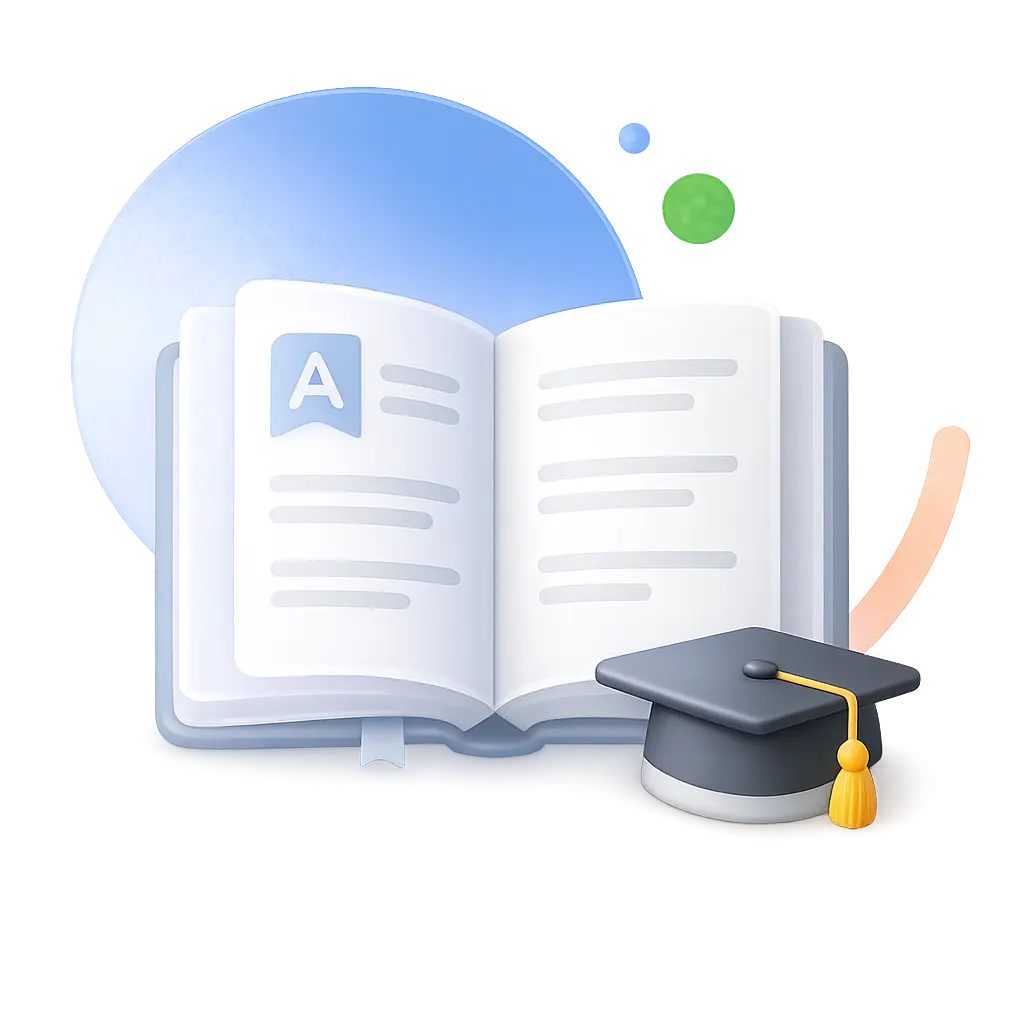
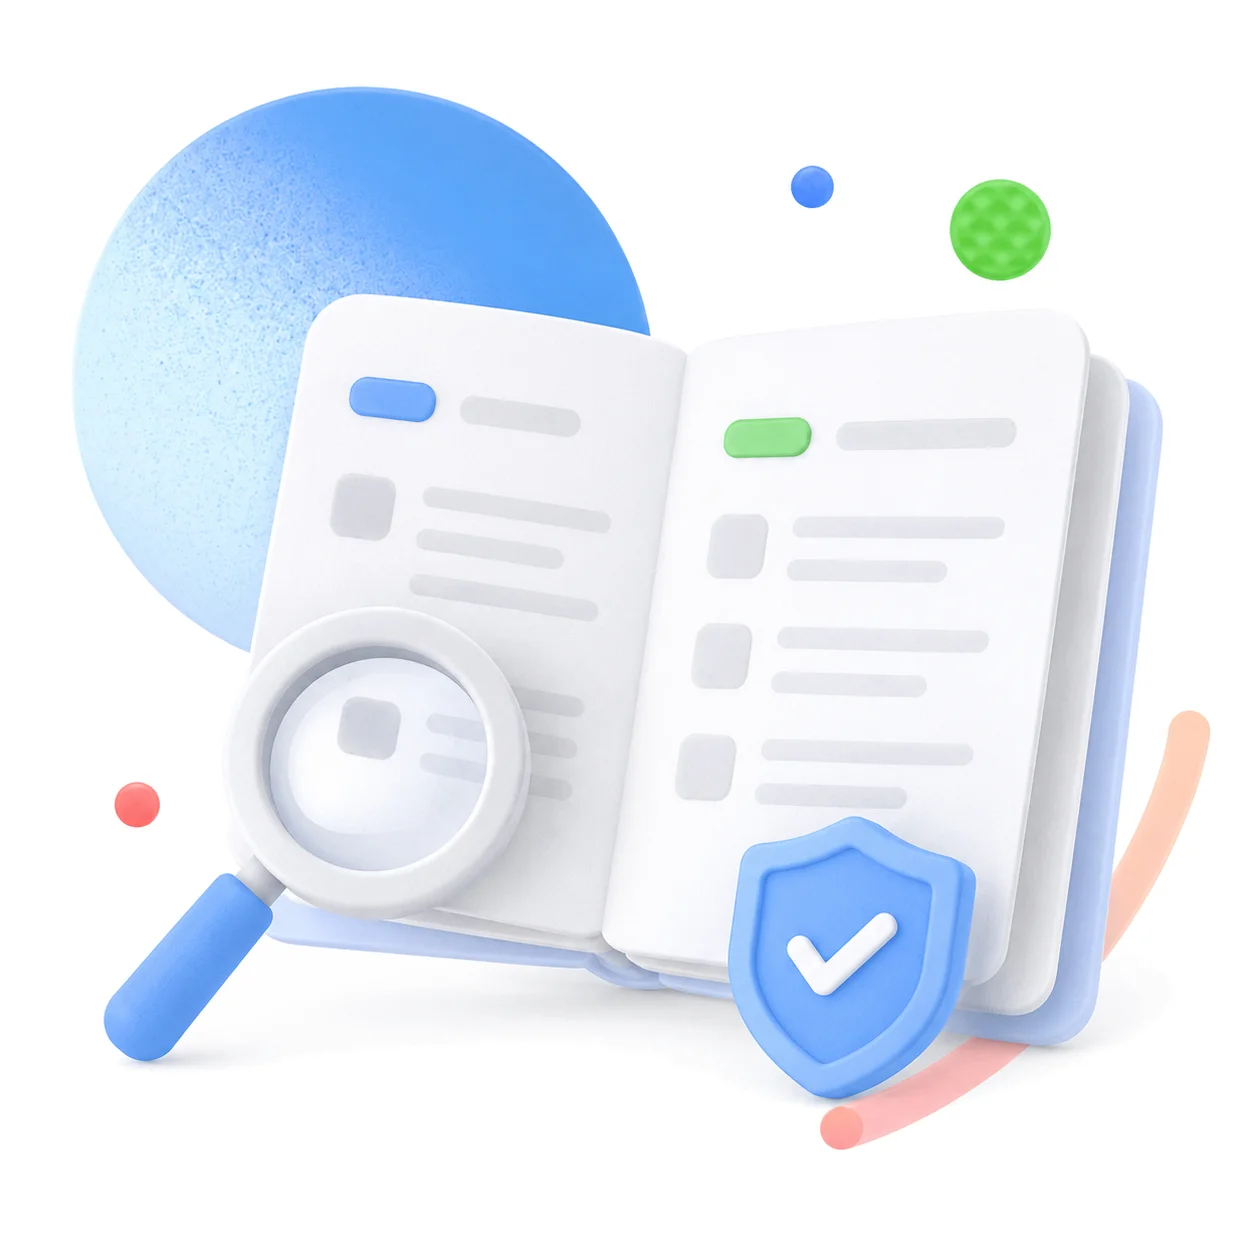
chore: renew glossary.webp

diff --git a/frontend/src/app/router/AppRouter.tsx b/frontend/src/app/router/AppRouter.tsx
@@ -5,7 +5,7 @@ import {DefaultLayout} from '@/app/layouts/default'
 
 import {DashboardPage} from '@/pages/dashboard'
 import {GlossaryPage} from '@/pages/glossary'
-import {HomePage} from '@/pages/home'
+// import {HomePage} from '@/pages/home'
 import {LeaderboardPage} from '@/pages/leaderboard'
 import {LoginPage} from '@/pages/login'
 import {NotFoundPage} from '@/pages/not-found'
@@ -35,7 +35,7 @@ export function AppRouter() {
             </Route>
 
             <Route element={<DefaultLayout/>}>
-                <Route path="/home" element={<HomePage/>}/>
+                <Route path="/home" element={<WelcomePage/>}/>
                 <Route path="/welcome" element={<WelcomePage/>}/>
                 <Route path="/dashboard" element={<DashboardPage/>}/>
                 <Route path="/leaderboard" element={<LeaderboardPage/>}/>
